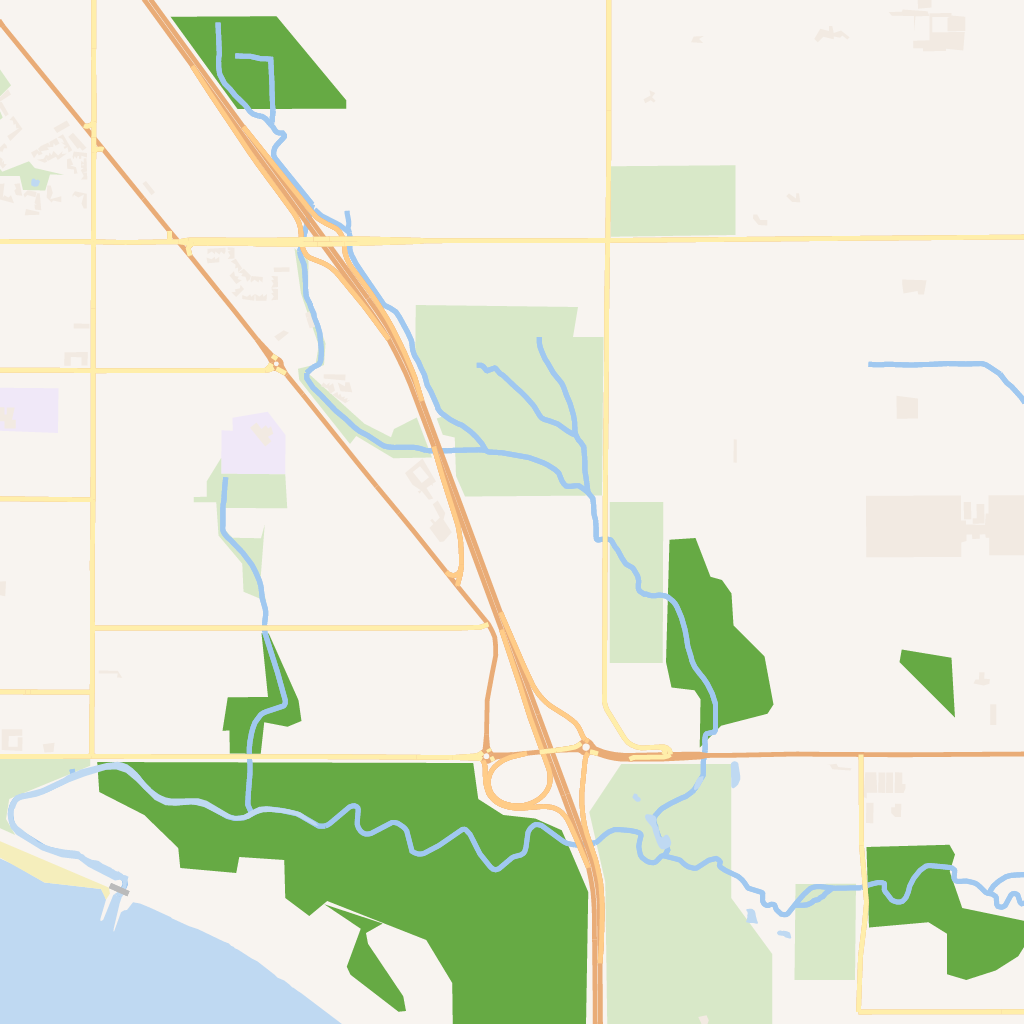
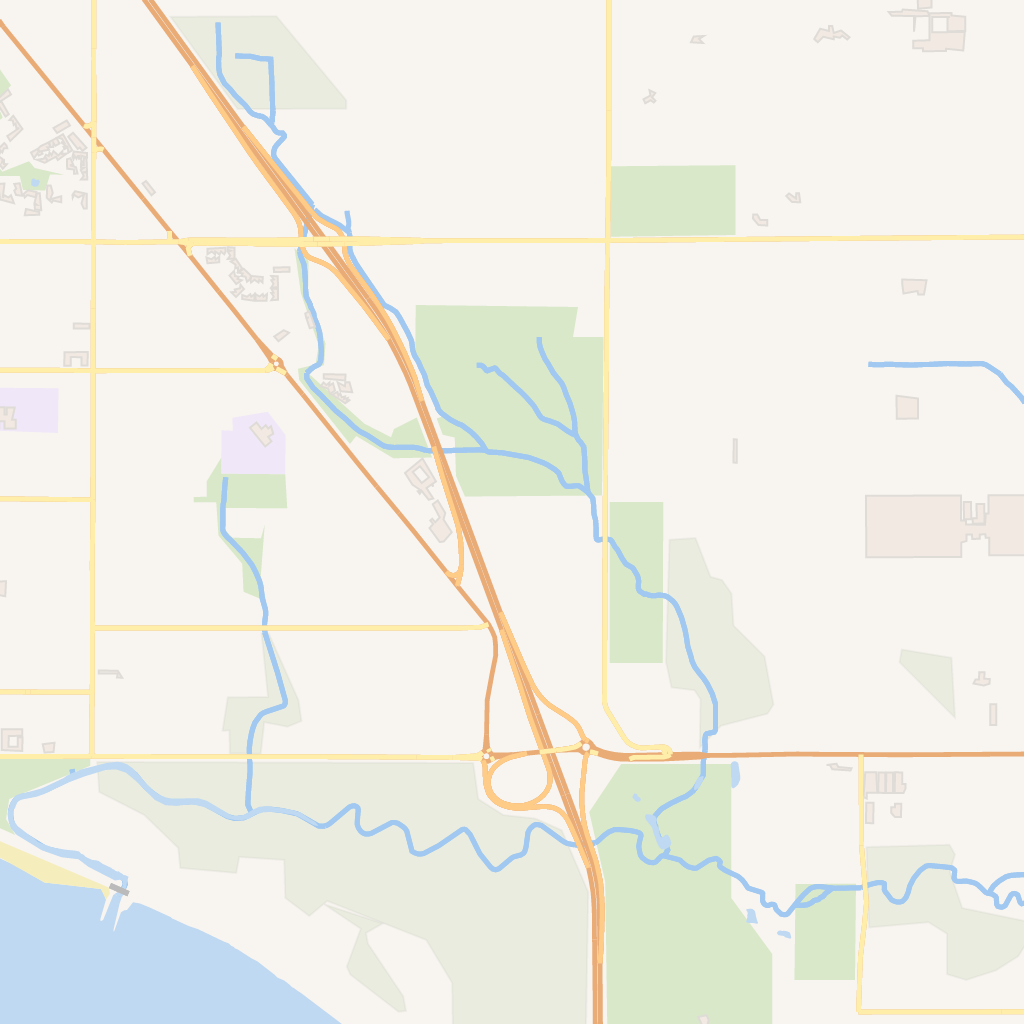
implement opacity and outlines

diff --git a/lib/src/themes/theme_reader.dart b/lib/src/themes/theme_reader.dart
@@ -52,11 +52,15 @@ class ThemeReader {
 
   ThemeLayer? _toFillTheme(jsonLayer) {
     final selector = selectorFactory.create(jsonLayer);
-    final paint = paintFactory.create('fill', jsonLayer['paint']);
+    final paintJson = jsonLayer['paint'];
+    final paint = paintFactory.create('fill', paintJson);
+    final outlinePaint = paintFactory.create('fill-outline', paintJson);
     if (paint != null) {
       paint.style = PaintingStyle.fill;
+      outlinePaint?.style = PaintingStyle.stroke;
+      outlinePaint?.strokeWidth = 0.5;
       return DefaultLayer(jsonLayer['id'] ?? _unknownId, selector,
-          Style(fillPaint: paint, linePaint: null));
+          Style(fillPaint: paint, outlinePaint: outlinePaint));
     }
   }
 
@@ -67,8 +71,8 @@ class ThemeReader {
     if (paint != null) {
       paint.style = PaintingStyle.stroke;
       LinePaintInterpolator.interpolate(paint, jsonPaint);
-      return DefaultLayer(jsonLayer['id'] ?? _unknownId, selector,
-          Style(fillPaint: null, linePaint: paint));
+      return DefaultLayer(
+          jsonLayer['id'] ?? _unknownId, selector, Style(linePaint: paint));
     }
   }
 }

diff --git a/test/src/image_renderer_test.dart b/test/src/image_renderer_test.dart
@@ -16,7 +16,7 @@ void main() {
         logger: testLogger);
     final image = await renderer.render(tile);
     final imageBytes = await image.toPng();
-    final file = await writeTestFile(imageBytes, 'tile.png');
+    final file = await writeTestFile(imageBytes, 'rendered-tile.png');
     final stat = await file.stat();
     expect(image.width, 1024);
     expect(image.height, 1024);

diff --git a/lib/src/themes/paint_factory.dart b/lib/src/themes/paint_factory.dart
@@ -16,7 +16,12 @@ class PaintFactory {
         logger.warn(() => 'expected color');
         return null;
       }
-      return Paint()..color = color;
+      final paint = Paint()..color = color;
+      final opacity = json['$prefix-opacity'];
+      if (opacity is num) {
+        paint.color = color.withOpacity(opacity.toDouble());
+      }
+      return paint;
     }
   }
 }

diff --git a/lib/src/features/polygon_renderer.dart b/lib/src/features/polygon_renderer.dart
@@ -42,6 +42,9 @@ class PolygonRenderer extends FeatureRenderer {
           });
         });
         canvas.drawPath(path, style.fillPaint!);
+        if (style.outlinePaint != null) {
+          canvas.drawPath(path, style.outlinePaint!);
+        }
       } else {
         logger.warn(
             () => 'polygon geometryType=${geometry.type} is not implemented');

diff --git a/lib/src/themes/style.dart b/lib/src/themes/style.dart
@@ -3,6 +3,7 @@ import 'dart:ui';
 class Style {
   final Paint? fillPaint;
   final Paint? linePaint;
+  final Paint? outlinePaint;
 
-  Style({this.fillPaint, this.linePaint});
+  Style({this.fillPaint, this.outlinePaint, this.linePaint});
 }
